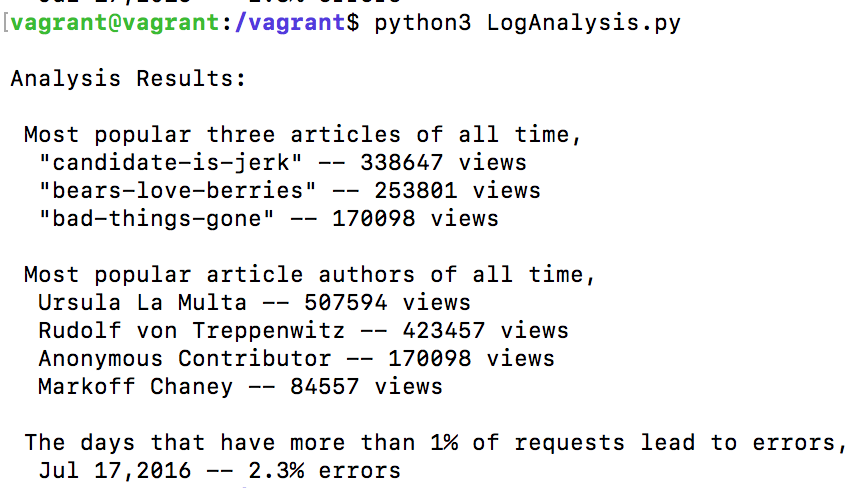
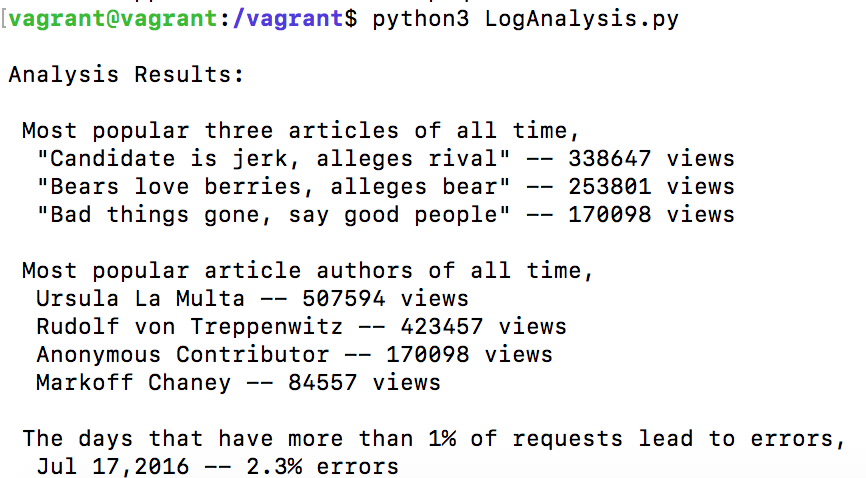
Updated files based on review
Separate view setup sql code into ViewSetup.sql and updated readme

diff --git a/LogAnalysis.py b/LogAnalysis.py
@@ -12,7 +12,7 @@ cur = conn.cursor()
 print("\nAnalysis Results:")
 
 # analysis on what the most popular three articles of all time are
-cur.execute("SELECT articles.slug, topArticles.times " +
+cur.execute("SELECT articles.title, topArticles.times " +
             "FROM " +
             "(SELECT " +
             "SUBSTRING(path FROM '\/article\/(.+)') AS articleName, " +
@@ -30,18 +30,6 @@ for row in rows:
     print("  \"{}\" -- {} views".format(row[0], row[1]))
 
 # analysis on who the most popular article authors of all time are
-cur.execute("SELECT EXISTS(SELECT 1 FROM simplifiedLog);")
-viewExisted = cur.fetchone()[0]
-if viewExisted is False:
-    cur.execute("CREATE VIEW simplifiedLog AS " +
-                "SELECT * FROM " +
-                "(SELECT " +
-                "SUBSTRING(PATH FROM '\/article\/(.+)') AS articleName, " +
-                "status " +
-                "FROM log) AS tempLog " +
-                "WHERE tempLog.articleName " +
-                "IN (SELECT slug FROM articles);")
-
 cur.execute("SELECT articleAuthorMap.authorName, COUNT(*) " +
             "FROM " +
             "(SELECT " +
@@ -49,7 +37,7 @@ cur.execute("SELECT articleAuthorMap.authorName, COUNT(*) " +
             "FROM authors JOIN articles " +
             "ON authors.id = articles.author) " +
             "AS articleAuthorMap JOIN simplifiedLog " +
-            "ON articleAuthorMap.articleSlug = simplifiedLog.articleName " +
+            "ON articleAuthorMap.articleSlug = simplifiedLog.slug " +
             "GROUP BY articleAuthorMap.authorName " +
             "ORDER BY COUNT(*) DESC;")
 rows = cur.fetchall()
@@ -58,20 +46,6 @@ for row in rows:
     print("  {} -- {} views".format(row[0], row[1]))
 
 # analysis on which days more than 1% of requests lead to errors
-cur.execute("SELECT EXISTS(SELECT 1 FROM countLog);")
-viewExisted = cur.fetchone()[0]
-if viewExisted is False:
-    cur.execute("CREATE VIEW countLog AS " +
-                "SELECT COUNT(*), tempLog.time, tempLog.status " +
-                "FROM " +
-                "((SELECT " +
-                "to_char(time, 'Mon dd,yyyy') AS time, id " +
-                "FROM log) AS timeLog " +
-                "JOIN " +
-                "(SELECT id, status FROM log) AS statusLog " +
-                "ON timeLog.id = statusLog.id) AS tempLog " +
-                "GROUP BY tempLog.time, tempLog.status")
-
 cur.execute("SELECT finalLog.Atime, " +
             "ROUND(finalLog.errorCounts/finalLog.allCounts * 100, 1)||'%' " +
             "AS errorRate " +

diff --git a/README.md b/README.md
@@ -5,15 +5,13 @@ Log Analysis
 This is a reporting tool that prints out reports (in plain text) based on the data in the database. This reporting tool is a Python program using the psycopg2 module to connect to the database
 
 ## Requirements
-
   - [Python 3](https://www.python.org/downloads/) installed on your Mac/Windows
   - Add python.exe to PATH environmental variable if you are using Windows
   - install psql database server
-  - Create tables (articles, authors and log)
-  - views needed: simplifiedLog for question 2, countLog for question 3
+  - Setup news database using `newsdata.sql` script, which includes three tables (articles, authors and log)
+  - Create views needed using `ViewSetup.sql`, simplifiedLog for question 2, countLog for question 3
 
 ## Schemas for views
-
 - schema for simplifiedLog,    
   View "public.simplifiedlog"
   | Column        | Type | Modifiers  |
@@ -33,9 +31,12 @@ This is a reporting tool that prints out reports (in plain text) based on the da
 
 ## Download and Run
   - Download the project folder `UdacityProject3` from        [GitHub](https://github.com/mengluo/UdacityProject3)
-  - The folder contains three files, README.md, LogAnalysis.py and output.png.
-  - LogAnalysis.py is the script you should use to generate the log analysis to the three questions.
-  - What the script does is that it first connects to the news database server and then run queries for each question. Note that, views are created for question 2 and question 3. If these two view are already created, creating view process will be skipped.
-  - After running the script, you will get the same results shown in output.png
+  - The folder contains four files, `README.md`, `LogAnalysis.py`, `output.png` and `ViewSetup.sql`.
+  - Download the data [here](https://d17h27t6h515a5.cloudfront.net/topher/2016/August/57b5f748_newsdata/newsdata.zip), unzip it and you will get a file called `newsdata.sql`.
+  - Run command *"psql -d news -f newsdata.sql"* to connect to your installed database server and execute the create tables and populate them with data
+  - Run command *"psql -d news -f ViewSetup.sql"* to import the views to the news database. You only need to do this once when setting up the database for the first time
+  - `LogAnalysis.py` is the script you should use to generate the log analysis to the three questions.
+  - What the script does is that it first connects to the news database server and then run queries for each question.
+  - After running the script, you will get the same results shown in `output.png`
   - For Mac users, open terminal program and type *"cd ~/[your directory path]/`UdacityProject3`"* to change directory to the folder downloaded. And then type *"python3 ./LogAnalysis.py"* to run the program.
   - For Windows users, open terminal program and type *"cd [your directory path]/`UdacityProject3`"* to change directory to the folder downloaded. And then type *"python3 LogAnalysis.py"* to run the program.
